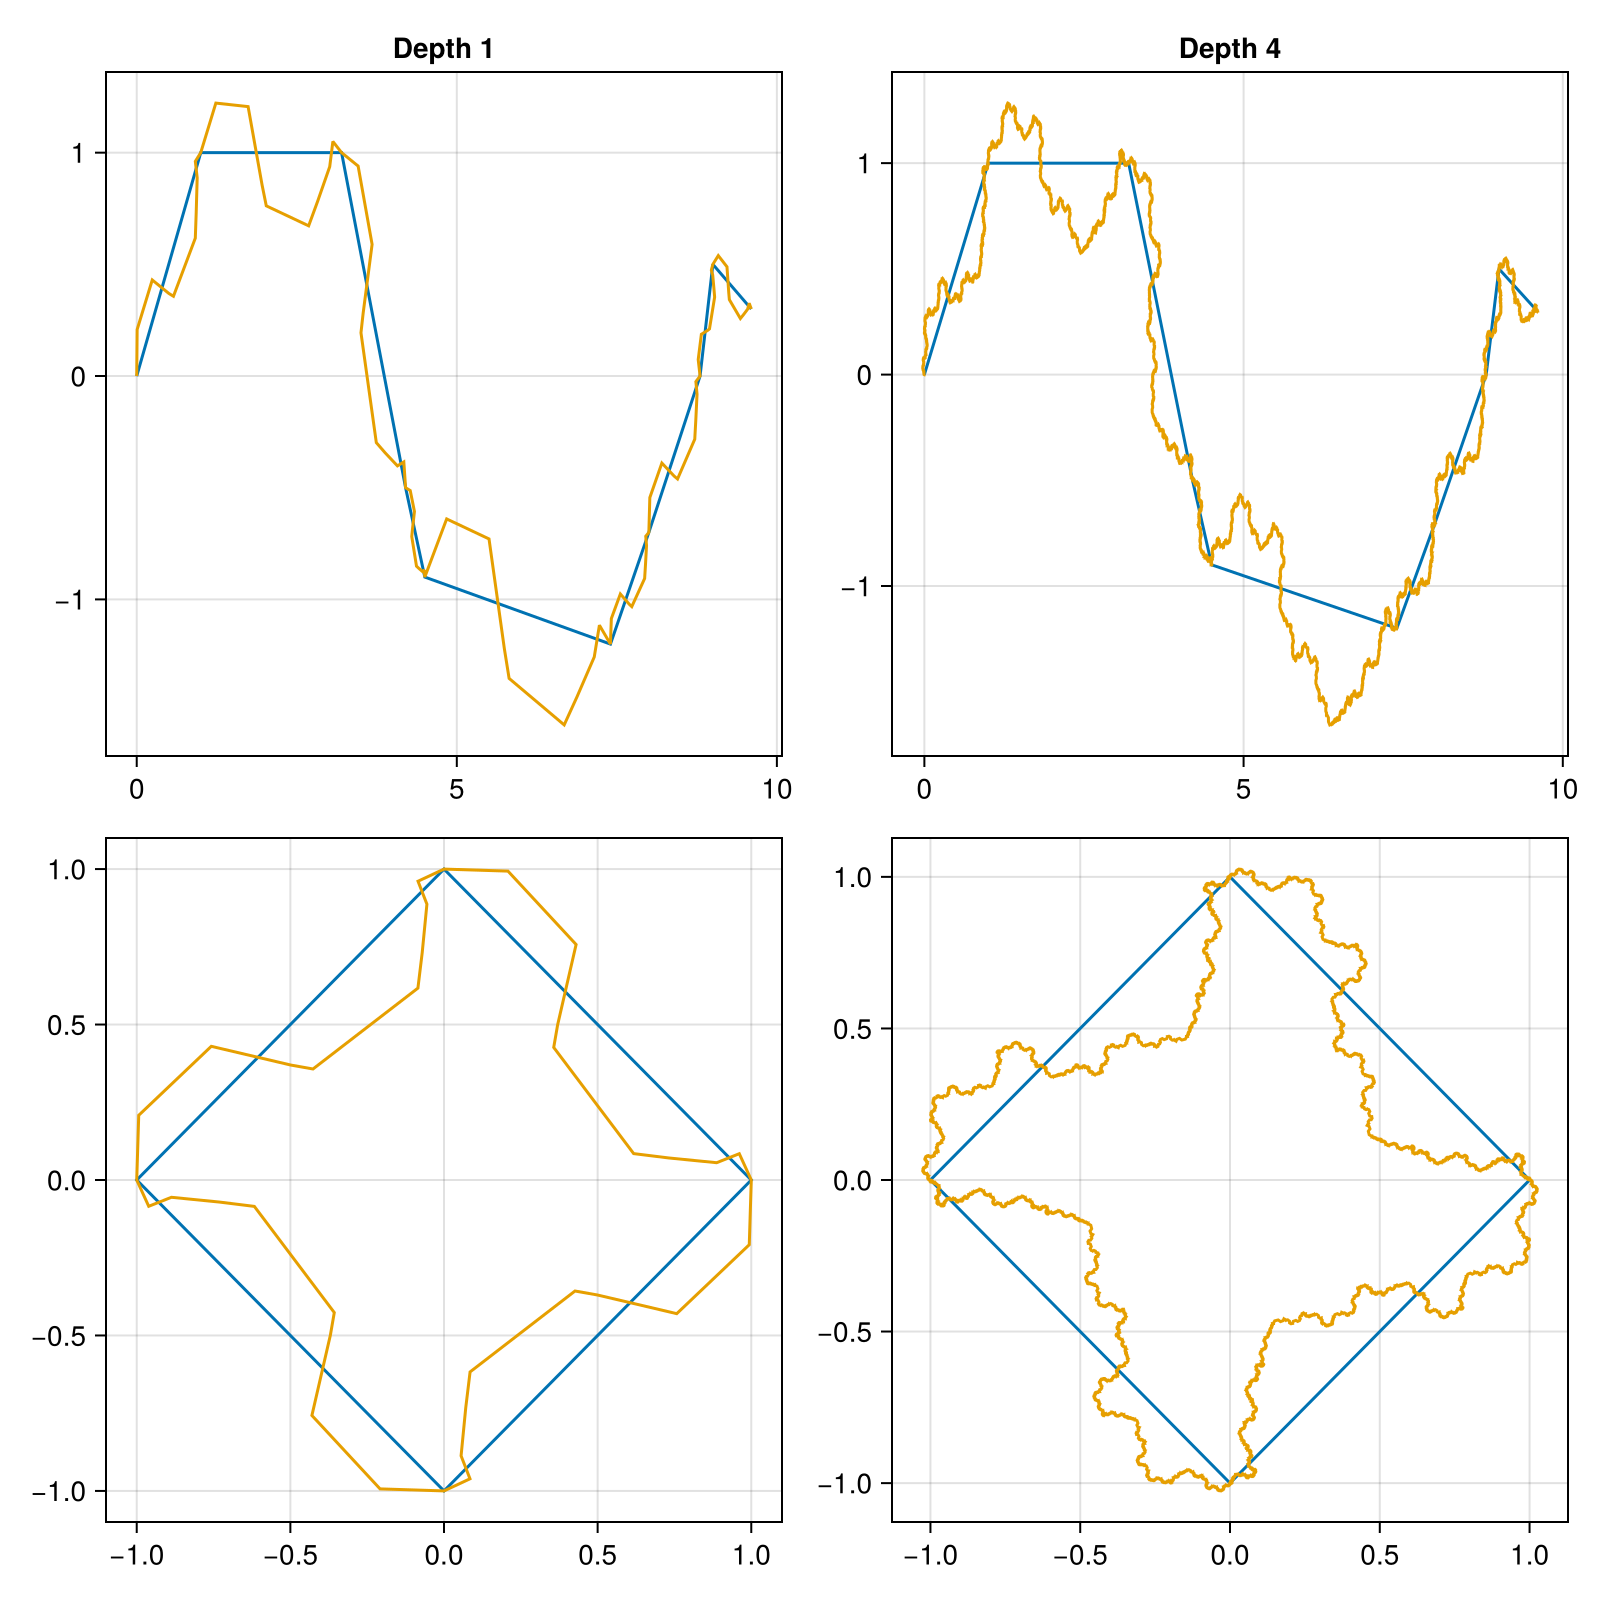
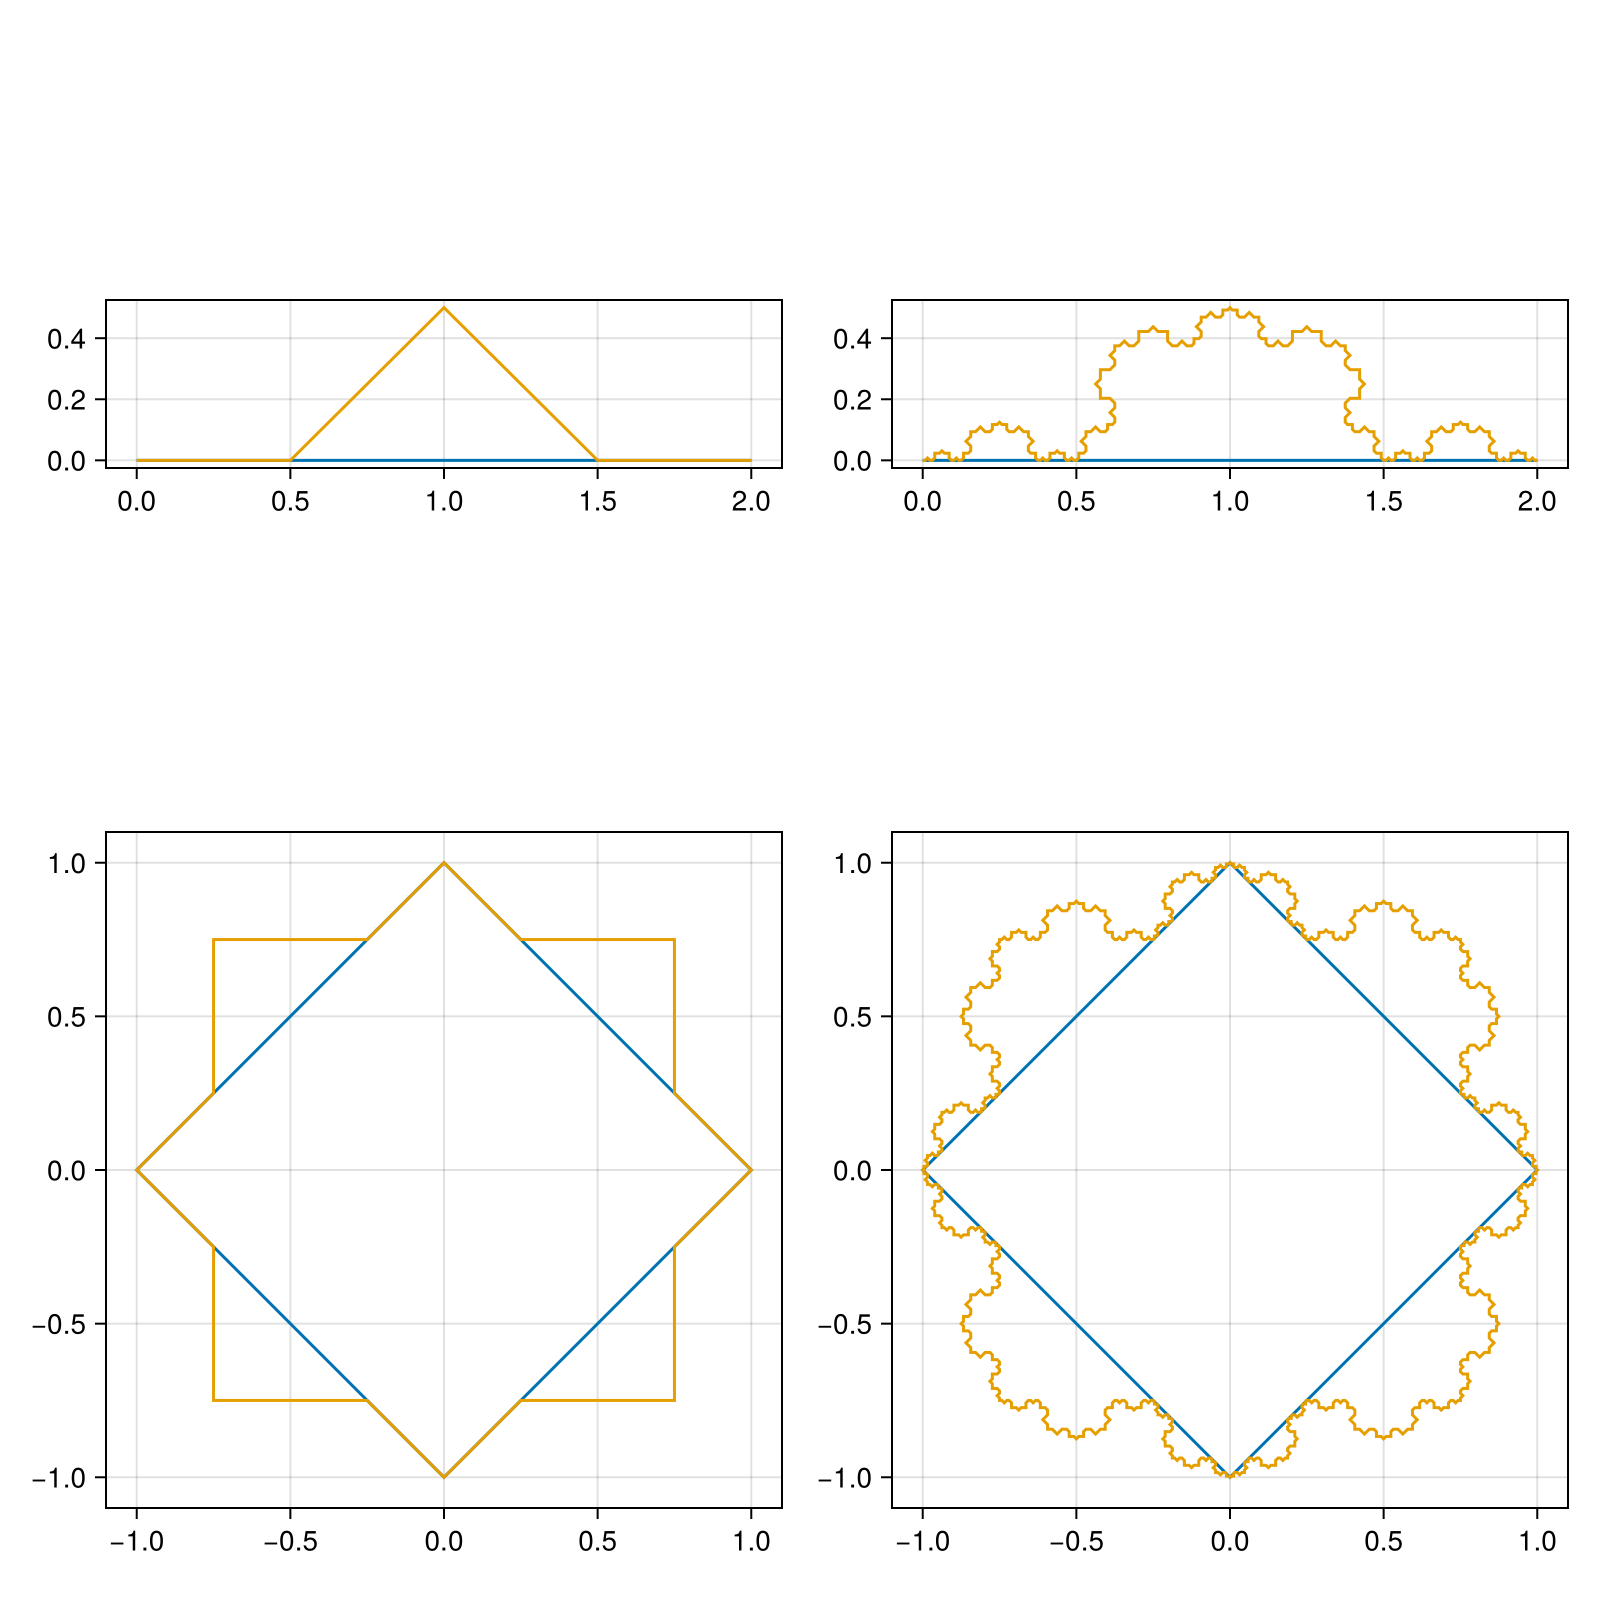
Examples update

diff --git a/docs/src/examples.md b/docs/src/examples.md
@@ -8,31 +8,32 @@ using Fractalizer
 
 
 
-template_points = [[0., 0.] [1.0,1.0] [3.2, 1.0] [4.2, -0.5] [4.5, -0.9] [7.4, -1.2] [8,-0.7] [8.8,0.0] [9.0, 0.5] [9.6, 0.3]]' # Here the matrix is transposed because we want Nx2  
+shape_points = [[0., 2.] [0., 0.]]
+template_points = [[0., 1., 2., 3., 4.] [0., 0., 1., 0., 0.]]
+
 
 template = Template(template_points)
-shape1 = Shape(template_points)
+shape1 = Shape(shape_points)
 
 shape2 = MakeRing(0.,0.,sqrt(1),5)
 
-
 fig = Figure(size = (800, 800))
-fig2 = Figure(size = (800, 800))
-ax5 = Axis(fig2[1,1], aspect=DataAspect())
 
-ax = Axis(fig[1,1],  title= "Depth 1")
-ax2 = Axis(fig[1,2], title= "Depth 4")
-ax3 = Axis(fig[2,1])
-ax4 = Axis(fig[2,2])
+ax = Axis(fig[1,1],  aspect=DataAspect())
+ax2 = Axis(fig[1,2], aspect=DataAspect())
+ax3 = Axis(fig[2,1], aspect=DataAspect())
+ax4 = Axis(fig[2,2], aspect=DataAspect())
 
-lines!(ax, shape1.points)
-lines!(ax2, shape1.points)
-lines!(ax3, shape2.points)
-lines!(ax4, shape2.points)
+lines!(ax,  shape1.xs, shape1.ys)
+lines!(ax2, shape1.xs, shape1.ys)
+
+lines!(ax3, shape2.xs, shape2.ys)
+lines!(ax4, shape2.xs, shape2.ys)
 
 
-fractal1 = fractalize(shape1, template) # Apply template only once
-fractal2 = fractalize(shape1, template, 4) # Apply template 4 times
+fractal1 = fractalize(shape1, template)
+fractal2 = fractalize(shape1, template, 4)
+
 fractal3 = fractalize(shape2, template)
 fractal4 = fractalize(shape2, template, 4)
 
@@ -55,28 +56,31 @@ using CairoMakie #hide
 using Fractalizer
 
 
-noise_params = NoiseParams(0.1:0.1, 1.0:1:10.0, -10.0:1:10.0, 100, 4, 10)
+noise_params = NoiseParams(0.1:0.1, 1.0:1:10.0, -10.0:1:10.0, 100, 4, 10; seeds=[5051219463749335488, 2605820118529195702, 58993957652373096, -3230896108381048720]) # fixed seeds
+shape_points = [[0., 2.] [0., 0.]]
 
 template = random_template(noise_params)
 
-shape1 = Shape(template.points)
+shape1 = Shape(shape_points)
 
 shape2 = MakeRing(0.,0.,sqrt(1),5)
 
 fig = Figure(size = (800, 800))
-ax = Axis(fig[1,1],  title= "Depth 1")
-ax2 = Axis(fig[1,2], title= "Depth 4")
-ax3 = Axis(fig[2,1])
-ax4 = Axis(fig[2,2])
+ax = Axis(fig[1,1], aspect=DataAspect())
+ax2 = Axis(fig[1,2], aspect=DataAspect())
+ax3 = Axis(fig[2,1], aspect=DataAspect())
+ax4 = Axis(fig[2,2], aspect=DataAspect())
 
-lines!(ax, shape1.points)
-lines!(ax2, shape1.points)
-lines!(ax3, shape2.points)
-lines!(ax4, shape2.points)
+lines!(ax,  shape1.xs, shape1.ys)
+lines!(ax2, shape1.xs, shape1.ys)
+
+lines!(ax3, shape2.xs, shape2.ys)
+lines!(ax4, shape2.xs, shape2.ys)
 
 
 fractal1 = fractalize(shape1, template)
 fractal2 = fractalize(shape1, template, 4)
+
 fractal3 = fractalize(shape2, template)
 fractal4 = fractalize(shape2, template, 4)
 
@@ -100,30 +104,29 @@ using Fractalizer
 
 
 noise_params = NoiseParams(0.1:0.1, 1.0:1:10.0, -10.0:1:10.0, 100, 4, 10)
-shape_points = [[0., 0.] [1.0,1.0] [3.2, 1.0] [4.2, -0.5] [4.5, -0.9] [7.4, -1.2] [8,-0.7] [8.8,0.0] [9.0, 0.5] [9.6, 0.3]]'
+shape_points = [[0., 2.] [0., 0.]]
 
 shape1 = Shape(shape_points)
 shape2 = MakeRing(0.,0.,sqrt(1),5)
-shape2 = shape2 * R(-30)
-
 
 fig = Figure(size = (800, 800))
-ax = Axis(fig[1,1], title="Depth 1")
-ax2 = Axis(fig[1,2], title="Depth 4")
-ax3 = Axis(fig[2,1])
-ax4 = Axis(fig[2,2])
+ax = Axis(fig[1,1], aspect=DataAspect())
+ax2 = Axis(fig[1,2], aspect=DataAspect())
+ax3 = Axis(fig[2,1], aspect=DataAspect())
+ax4 = Axis(fig[2,2], aspect=DataAspect())
 
-lines!(ax, shape1.points)
-lines!(ax2, shape1.points)
-lines!(ax3, shape2.points)
-lines!(ax4, shape2.points)
+lines!(ax,  shape1.xs, shape1.ys)
+lines!(ax2, shape1.xs, shape1.ys)
+lines!(ax3, shape2.xs, shape2.ys)
+lines!(ax4, shape2.xs, shape2.ys)
 
 
-fractal1 = fractalize(shape1, noise_params)
-fractal2 = fractalize(shape1, noise_params, 4)
+fractal1, templates1 = fractalize(shape1, noise_params)
 
-fractal3 = fractalize(shape2, noise_params)
-fractal4 = fractalize(shape2, noise_params, 4)
+fractal2 = fractalize(shape1, templates1, 4)
+
+fractal3, templates3 = fractalize(shape2, noise_params)
+fractal4 = fractalize(shape2, templates3, 4)
 
 lines!(ax, fractal1.points)
 lines!(ax2, fractal2.points)
